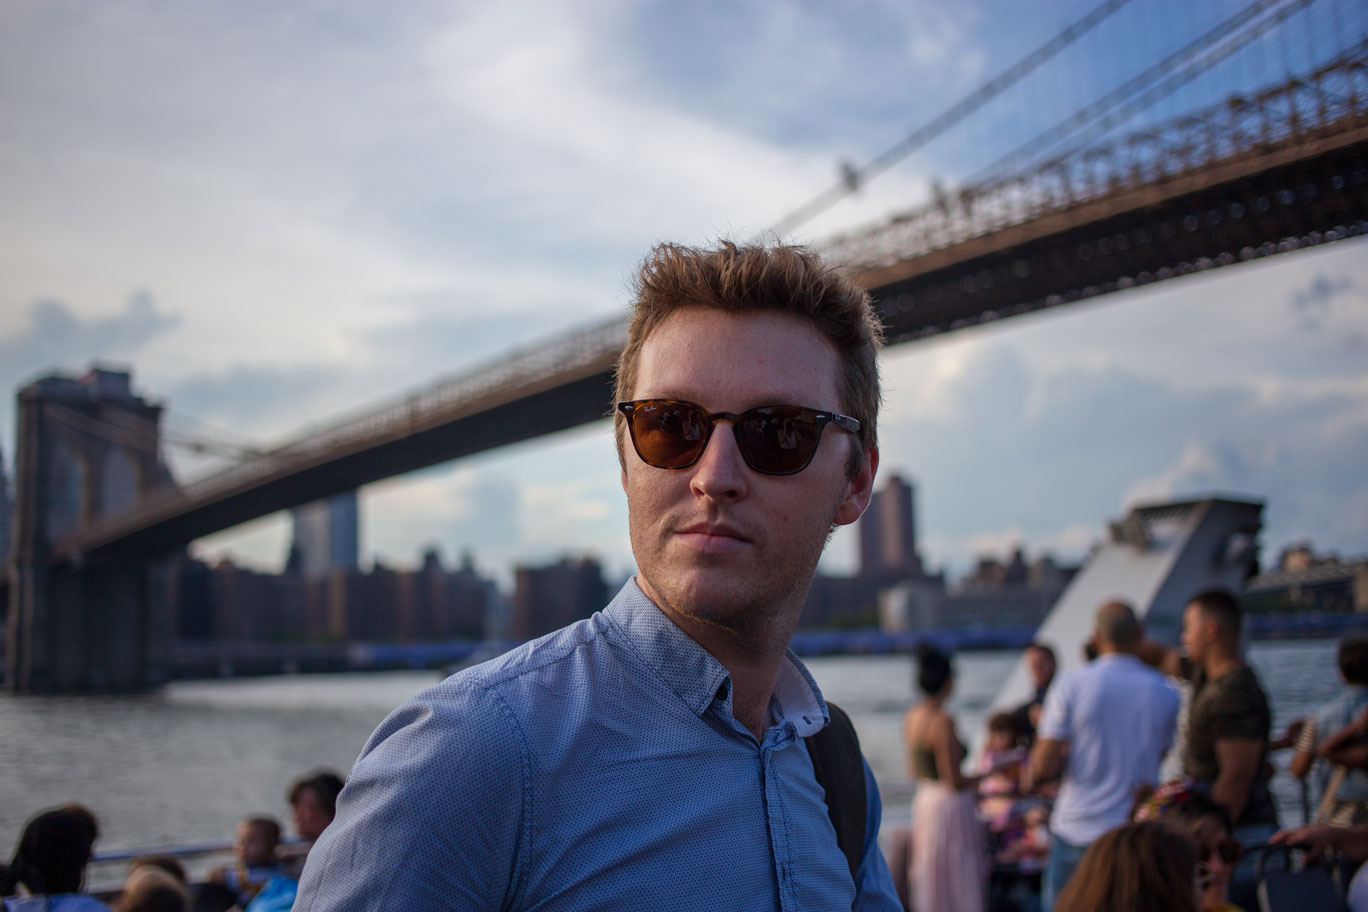
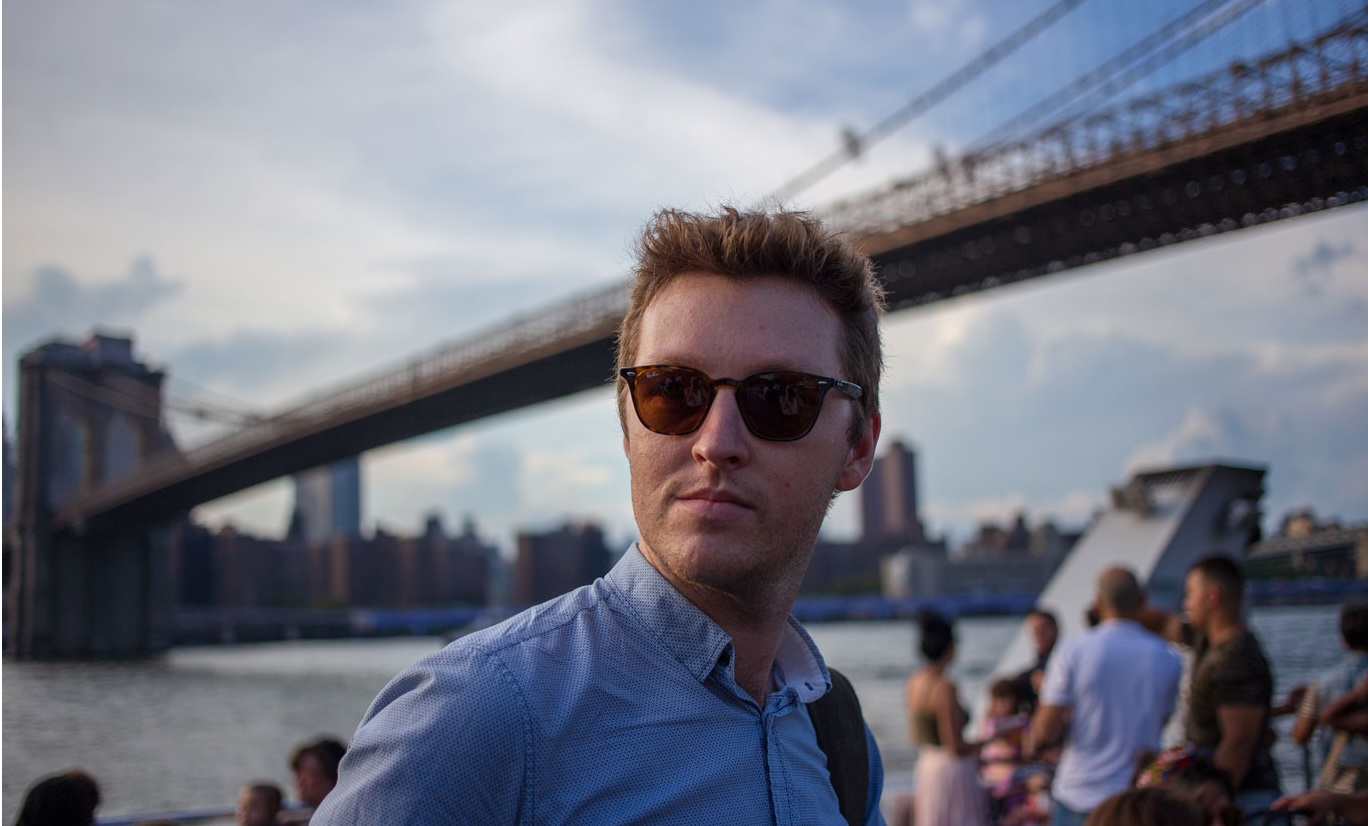
Adjusting photo on about.html page

diff --git a/_sass/components/_image.scss b/_sass/components/_image.scss
@@ -22,7 +22,7 @@
 
 		&.post_image {
 			width: auto;
-			max-width: 90%;
+			max-width: 75%;
 			margin-bottom: 1em;
 		}
 	}
